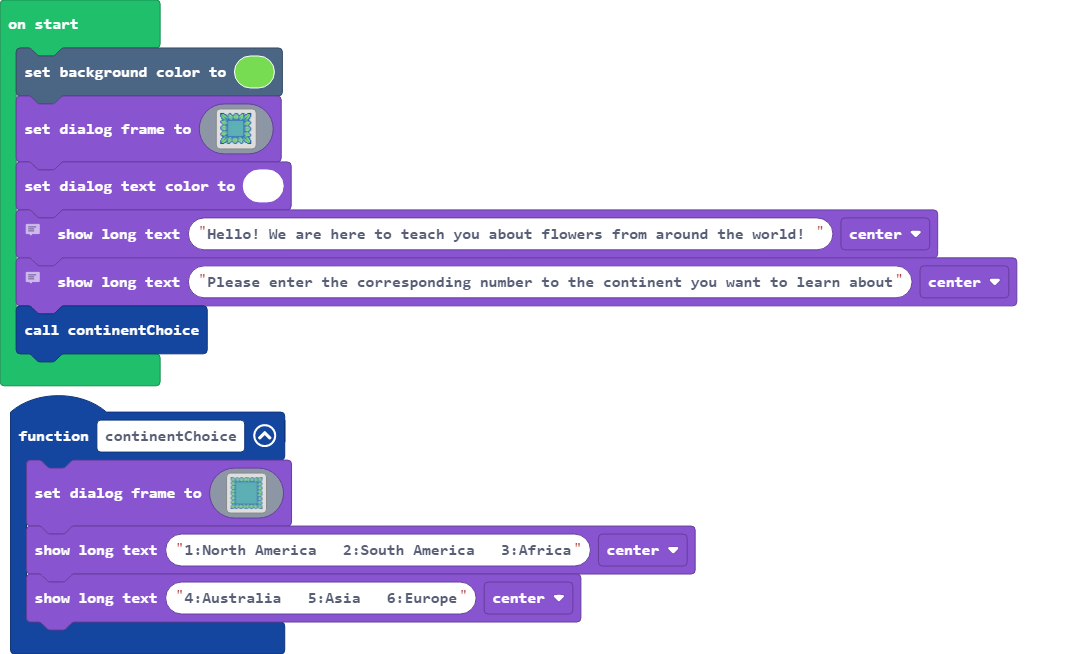
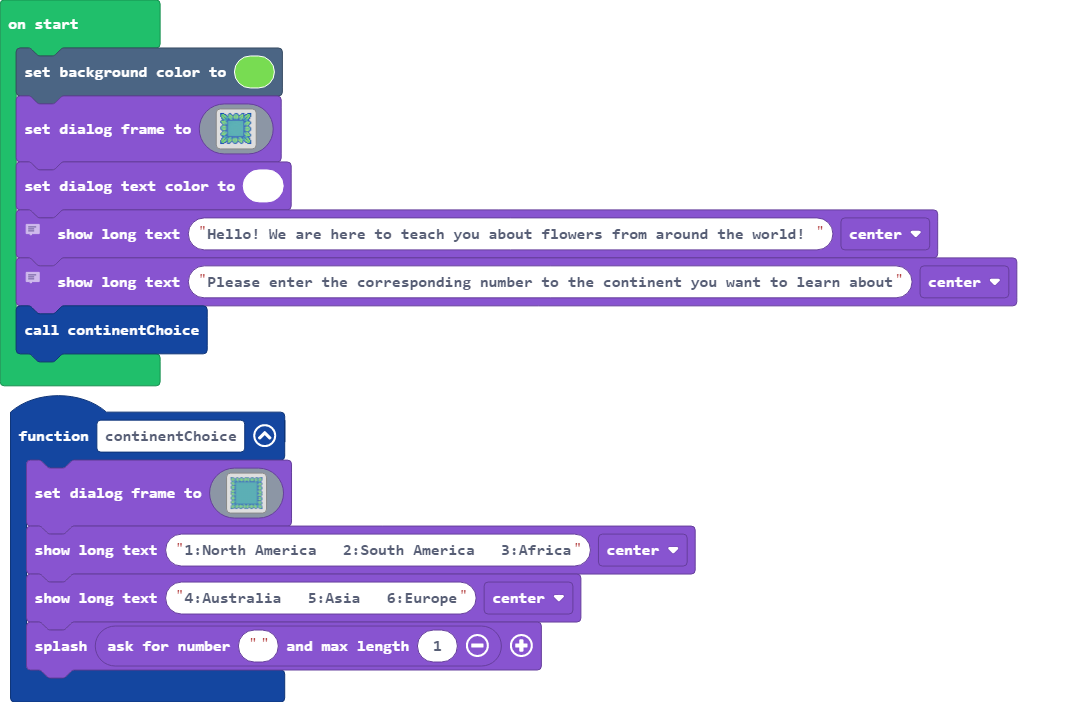
Update main.blocks, main.ts

Changed region(s): [[0.0, 0.0306, 0.957, 0.9786]]

diff --git a/main.ts b/main.ts
@@ -51,6 +51,7 @@ function continentChoice () {
         `)
     game.showLongText("1:North America   2:South America   3:Africa", DialogLayout.Center)
     game.showLongText("4:Australia   5:Asia   6:Europe", DialogLayout.Center)
+    game.splash(game.askForNumber("", 1))
 }
 scene.setBackgroundColor(7)
 game.setDialogFrame(img`
